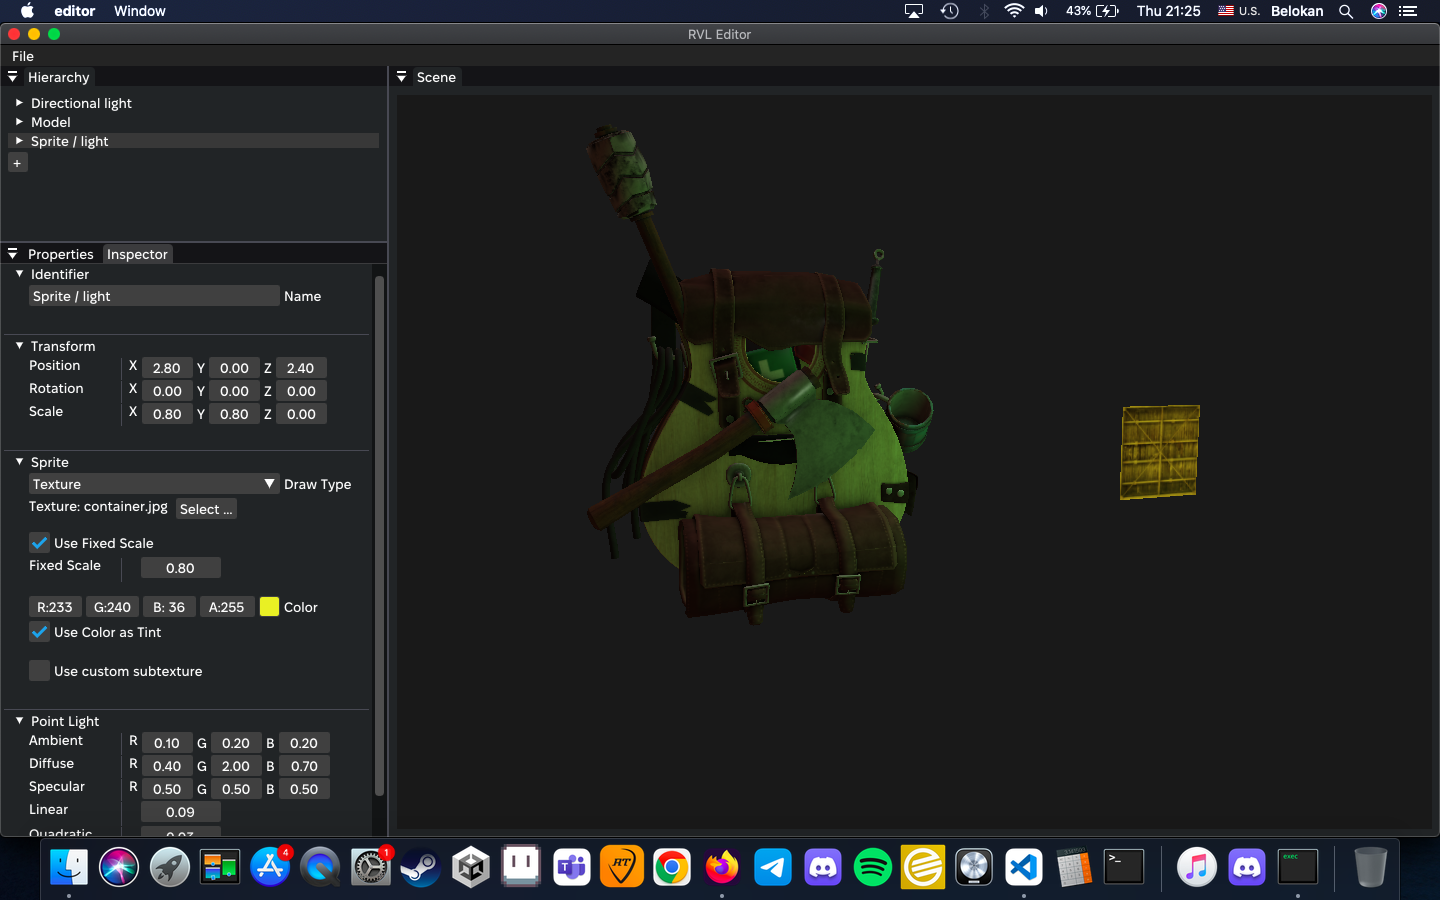
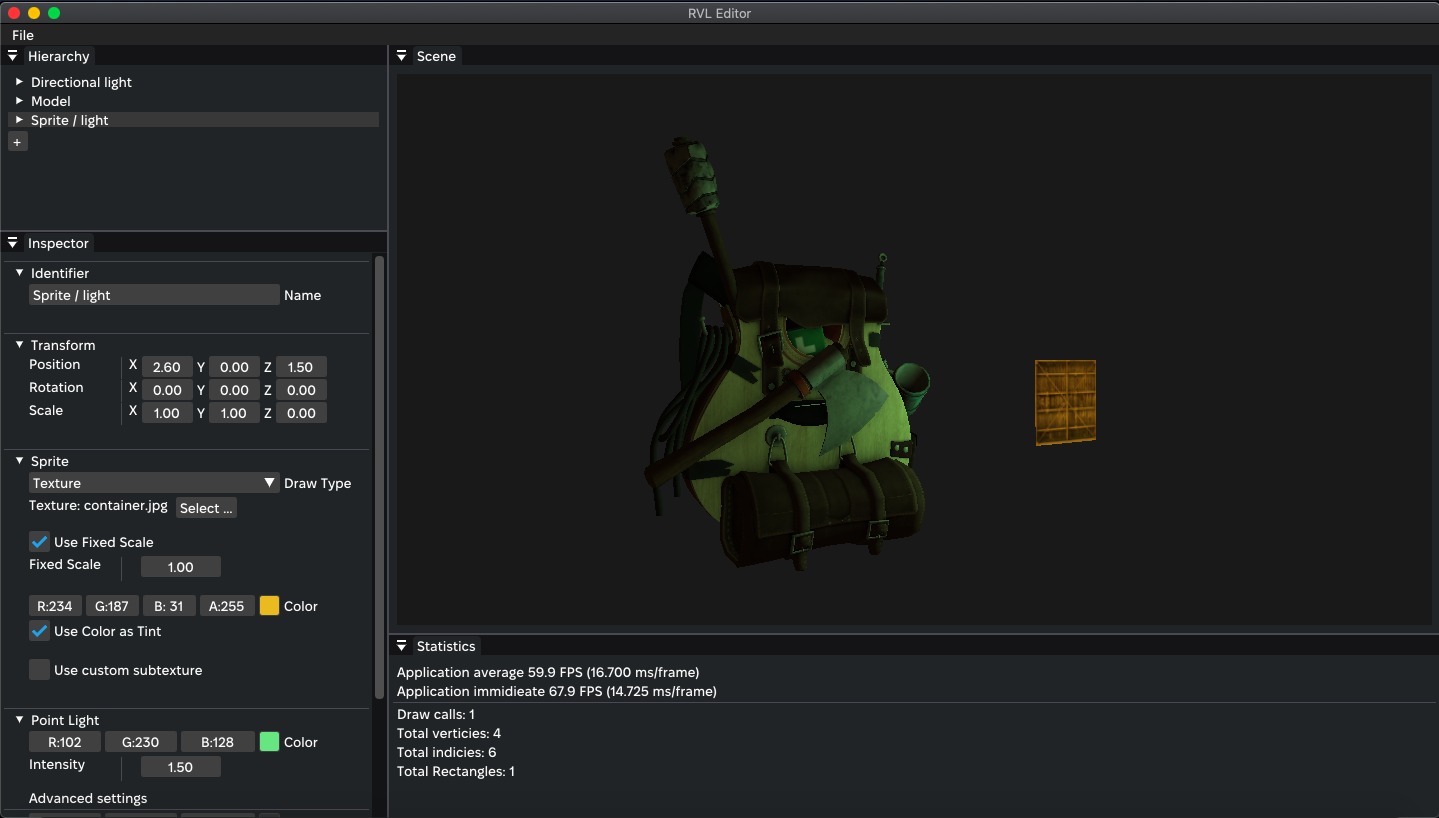
edited screenshot

diff --git a/RVLEditor/src/EditorState.cpp b/RVLEditor/src/EditorState.cpp
@@ -63,7 +63,7 @@ void EditorState::RenderImGui()
 {
     auto stats = Renderer::GetStats();
 
-    ImGui::Begin("Properties", nullptr, UIData.GlobalWinFlags);
+    ImGui::Begin("Statistics", nullptr, UIData.GlobalWinFlags);
         ImGui::Text("Application average %.1f FPS (%.3f ms/frame)", ImGui::GetIO().Framerate, 1000.0f / ImGui::GetIO().Framerate);
         ImGui::Text("Application immidieate %.1f FPS (%.3f ms/frame)", 1.f / Time::DeltaTime(), 1000.f / (1.f / Time::DeltaTime()));
         ImGui::Separator();
@@ -71,7 +71,6 @@ void EditorState::RenderImGui()
         ImGui::Text("Total verticies: %d", stats.VerticiesCount);
         ImGui::Text("Total indicies: %d", stats.IndiciesCount);
         ImGui::Text("Total Rectangles: %d", stats.RectCount);
-
     ImGui::End();
 
     _hierarchy->ImGuiRender();
